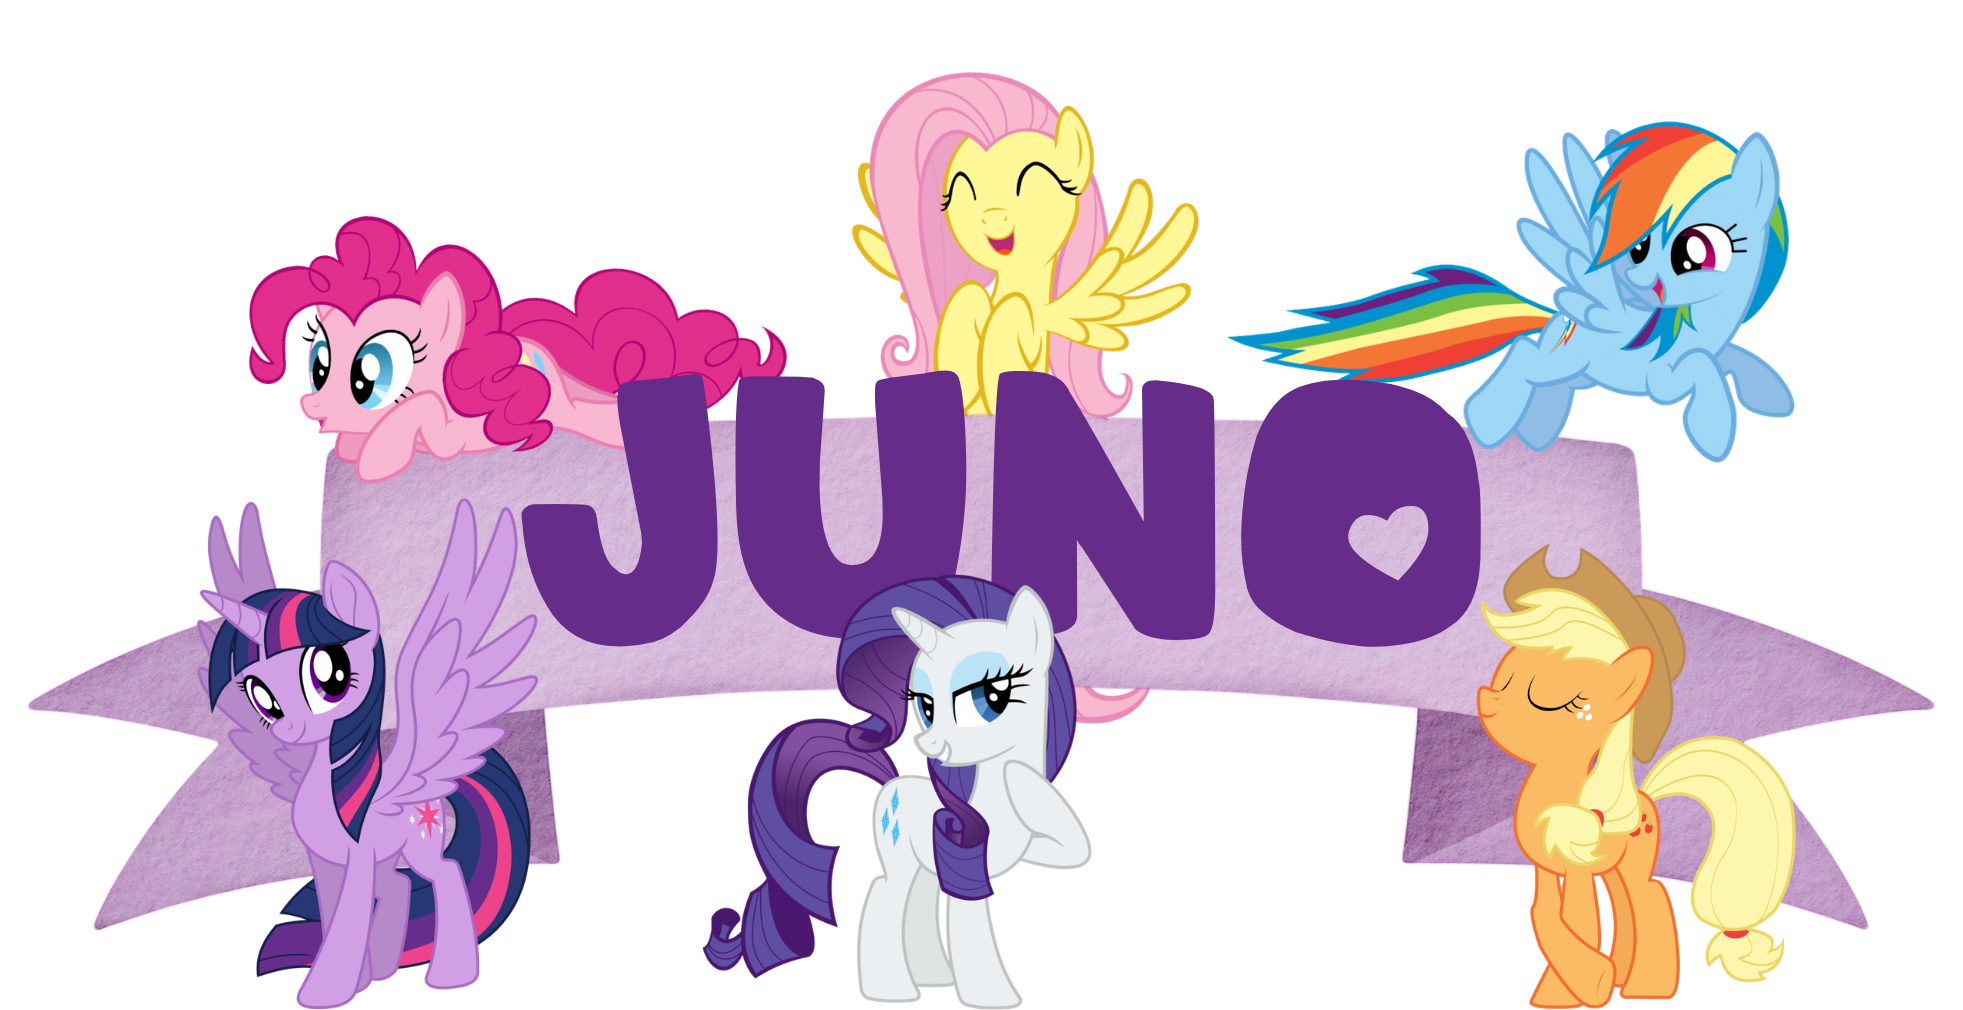
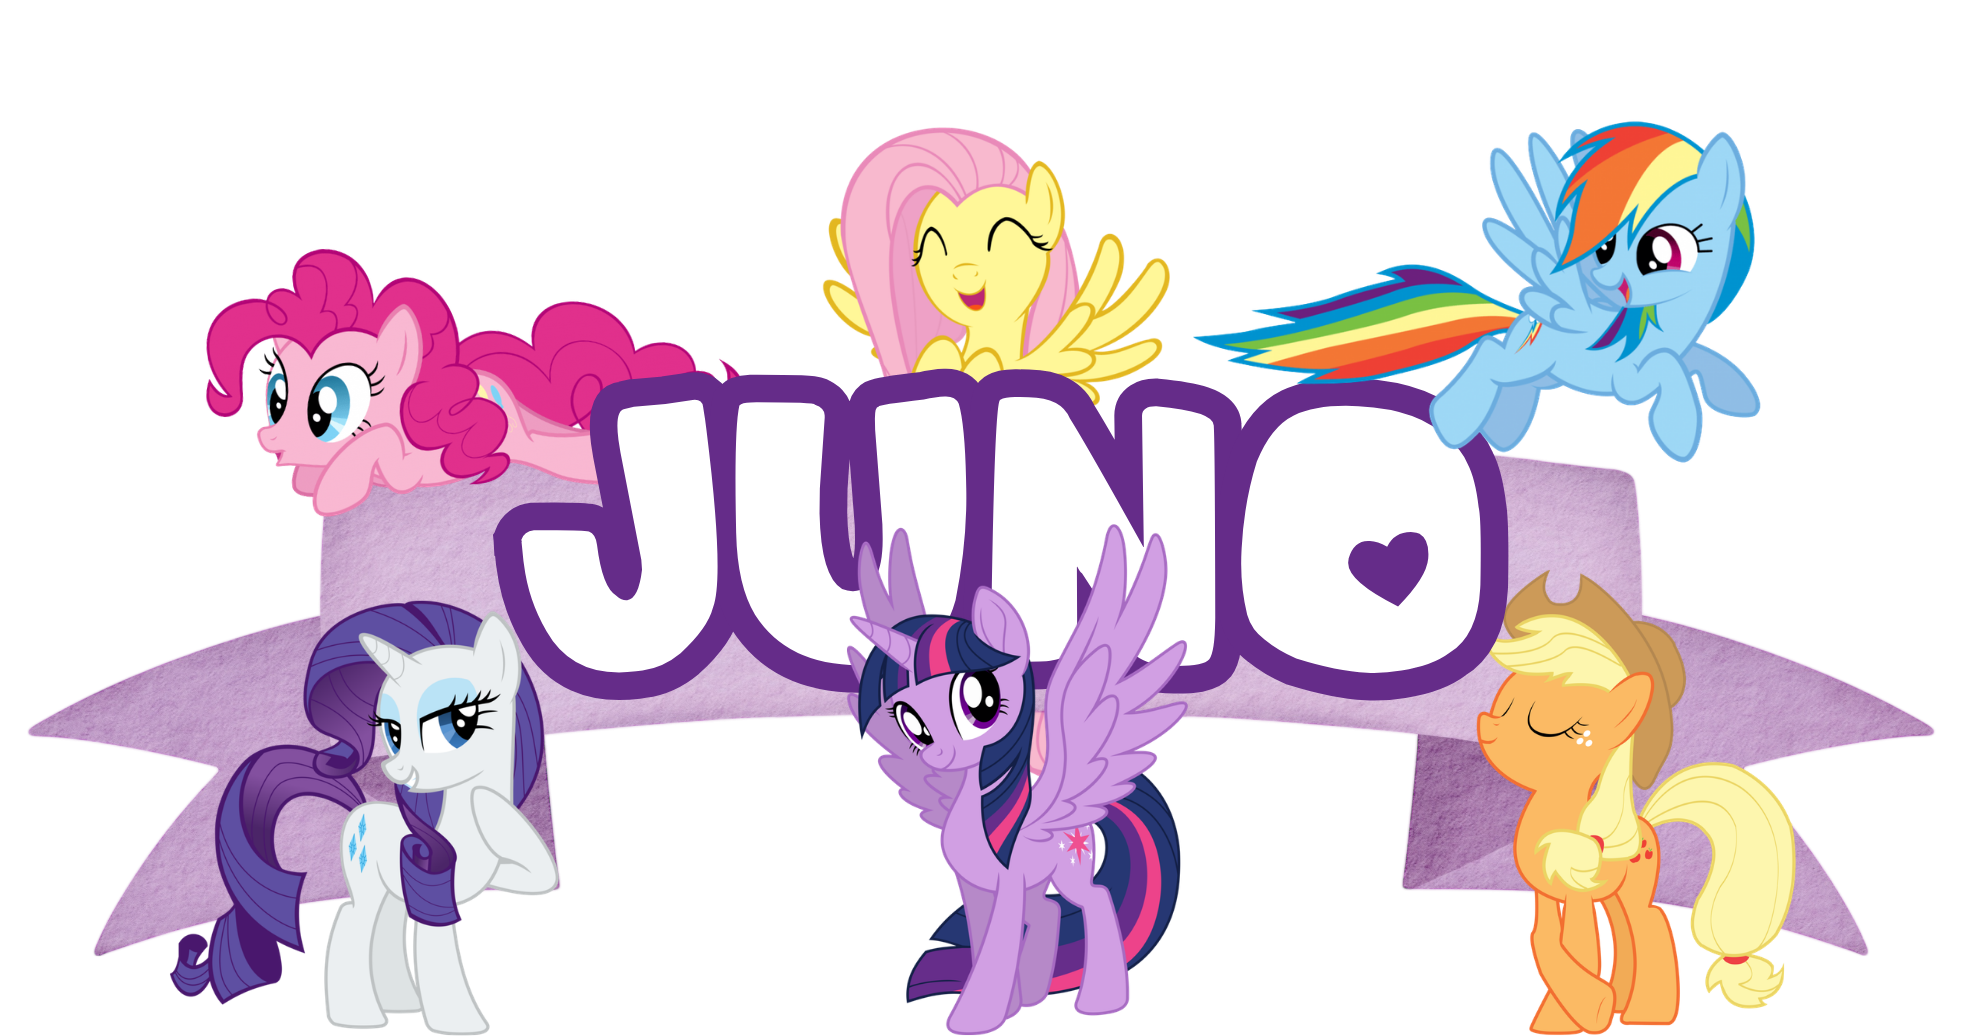
added dress code, godparents panel

diff --git a/body.html b/body.html
@@ -15,14 +15,15 @@
 
         @font-face {
             font-family: "Equestria Bold";
-            src: url("font/Equestria Bold.otf") format("opentype");
+            src: url("font/fredoka-one.one-regular.ttf") format("truetype");
             font-weight: normal;
             font-style: normal;
             font-display: swap;
         }
 
         :root {
-            --text-color: #652c89;
+            --text-color: #ffffff;
+            --outline-color: #652c89;
 
             --sky-top: #2a78d0;
             --sky-mid: #6fb6ee;
@@ -36,6 +37,11 @@
             --rod-light: #b57a45;
             --rod-dark: #5a3416;
             --rod-cap: #e0b34a;
+
+            --pinkie-body: #ffb3d9;
+            --pinkie-mane: #ff5fae;
+            --pinkie-deep: #d6338c;
+            --pinkie-light: #ffe3f1;
         }
 
         * {
@@ -56,7 +62,7 @@
 
         .page {
             position: relative;
-            min-height: 300vh; /* Make the page tall so there is room to scroll. Change as needed. */
+            min-height: 420vh; /* Make the page tall so there is room to scroll. Change as needed. */
             background: linear-gradient(
                 to bottom,
                 var(--sky-top) 0%,
@@ -70,6 +76,30 @@
         .content {
             position: relative;
             z-index: 2;
+        }
+
+        /* Small purple outline, applied to every piece of text on the page */
+        .title,
+        .intro,
+        .details-title,
+        .event-date,
+        .event-day,
+        .christening-title,
+        .christening-time,
+        .christening-venue,
+        .location-btn,
+        .countdown-label,
+        .countdown-value,
+        .countdown-unit-label {
+            text-shadow:
+                -2px -2px 0 var(--outline-color),
+                 2px -2px 0 var(--outline-color),
+                -2px  2px 0 var(--outline-color),
+                 2px  2px 0 var(--outline-color),
+                 0    2px 0 var(--outline-color),
+                 0   -2px 0 var(--outline-color),
+                 2px  0   0 var(--outline-color),
+                -2px  0   0 var(--outline-color);
         }
 
         /* Title at the top middle of the page */
@@ -148,21 +178,53 @@
             border-radius: 50%;
         }
 
-        .cloud-1 { top: 90px;  left: -220px; width: 130px; height: 44px; animation: drift-cloud 38s linear infinite; }
+        .cloud-1 { top: 4%;  left: -220px; width: 130px; height: 44px; animation: drift-cloud 38s linear infinite; }
         .cloud-1::before { width: 60px; height: 60px; top: -28px; left: 15px; }
         .cloud-1::after  { width: 46px; height: 46px; top: -20px; left: 65px; }
 
-        .cloud-2 { top: 220px; left: -260px; width: 170px; height: 54px; animation: drift-cloud 52s linear infinite; animation-delay: -18s; }
+        .cloud-2 { top: 12%; left: -260px; width: 170px; height: 54px; animation: drift-cloud 52s linear infinite; animation-delay: -18s; }
         .cloud-2::before { width: 74px; height: 74px; top: -34px; left: 20px; }
         .cloud-2::after  { width: 56px; height: 56px; top: -24px; left: 90px; }
 
-        .cloud-3 { top: 40px;  left: -180px; width: 110px; height: 38px; animation: drift-cloud 30s linear infinite; animation-delay: -8s; }
+        .cloud-3 { top: 2%;  left: -180px; width: 110px; height: 38px; animation: drift-cloud 30s linear infinite; animation-delay: -8s; }
         .cloud-3::before { width: 50px; height: 50px; top: -24px; left: 12px; }
         .cloud-3::after  { width: 38px; height: 38px; top: -16px; left: 55px; }
 
-        .cloud-4 { top: 330px; left: -240px; width: 150px; height: 48px; animation: drift-cloud 46s linear infinite; animation-delay: -30s; }
+        .cloud-4 { top: 18%; left: -240px; width: 150px; height: 48px; animation: drift-cloud 46s linear infinite; animation-delay: -30s; }
         .cloud-4::before { width: 64px; height: 64px; top: -30px; left: 18px; }
         .cloud-4::after  { width: 48px; height: 48px; top: -20px; left: 78px; }
+
+        .cloud-5 { top: 28%; left: -200px; width: 140px; height: 46px; animation: drift-cloud 42s linear infinite; animation-delay: -12s; }
+        .cloud-5::before { width: 62px; height: 62px; top: -30px; left: 16px; }
+        .cloud-5::after  { width: 48px; height: 48px; top: -20px; left: 68px; }
+
+        .cloud-6 { top: 38%; left: -250px; width: 160px; height: 50px; animation: drift-cloud 50s linear infinite; animation-delay: -26s; }
+        .cloud-6::before { width: 70px; height: 70px; top: -32px; left: 18px; }
+        .cloud-6::after  { width: 52px; height: 52px; top: -22px; left: 82px; }
+
+        .cloud-7 { top: 47%; left: -190px; width: 120px; height: 40px; animation: drift-cloud 34s linear infinite; animation-delay: -4s; }
+        .cloud-7::before { width: 54px; height: 54px; top: -26px; left: 14px; }
+        .cloud-7::after  { width: 42px; height: 42px; top: -18px; left: 60px; }
+
+        .cloud-8 { top: 57%; left: -230px; width: 150px; height: 48px; animation: drift-cloud 44s linear infinite; animation-delay: -34s; }
+        .cloud-8::before { width: 64px; height: 64px; top: -30px; left: 18px; }
+        .cloud-8::after  { width: 48px; height: 48px; top: -20px; left: 78px; }
+
+        .cloud-9 { top: 67%; left: -210px; width: 135px; height: 44px; animation: drift-cloud 40s linear infinite; animation-delay: -16s; }
+        .cloud-9::before { width: 60px; height: 60px; top: -28px; left: 16px; }
+        .cloud-9::after  { width: 46px; height: 46px; top: -18px; left: 66px; }
+
+        .cloud-10 { top: 76%; left: -260px; width: 170px; height: 54px; animation: drift-cloud 54s linear infinite; animation-delay: -40s; }
+        .cloud-10::before { width: 74px; height: 74px; top: -34px; left: 20px; }
+        .cloud-10::after  { width: 56px; height: 56px; top: -24px; left: 90px; }
+
+        .cloud-11 { top: 86%; left: -180px; width: 115px; height: 38px; animation: drift-cloud 32s linear infinite; animation-delay: -10s; }
+        .cloud-11::before { width: 52px; height: 52px; top: -26px; left: 14px; }
+        .cloud-11::after  { width: 40px; height: 40px; top: -18px; left: 58px; }
+
+        .cloud-12 { top: 93%; left: -240px; width: 150px; height: 48px; animation: drift-cloud 46s linear infinite; animation-delay: -22s; }
+        .cloud-12::before { width: 64px; height: 64px; top: -30px; left: 18px; }
+        .cloud-12::after  { width: 48px; height: 48px; top: -20px; left: 78px; }
 
         @keyframes drift-cloud {
             from { transform: translateX(0); }
@@ -298,7 +360,7 @@
             text-align: center;
         }
 
-        /* "What's Happening in Ponyville" heading inside the scroll */
+        /* "Event Details" heading inside the scroll */
         .details-title {
             margin: 0;
             font-family: "Pony MLP", "Trebuchet MS", "Segoe UI", Arial, sans-serif;
@@ -312,7 +374,7 @@
         .event-date {
             margin: 24px 0 0;
             font-family: "Equestria Bold", "Trebuchet MS", "Segoe UI", Arial, sans-serif;
-            font-size: clamp(1.75rem, 5vw, 3rem);
+            font-size: clamp(1.75rem, 5vw, 2.5rem);
             font-weight: normal;
             line-height: 1.2;
             color: var(--text-color);
@@ -353,9 +415,8 @@
             gap: 16px;
         }
 
-        /* Party row: image on the right side, text on the left */
+        /* Party row: image on the left side, same layout as Christening */
         .party {
-            flex-direction: row-reverse;
         }
 
         .christening-icon {
@@ -409,7 +470,7 @@
             font-family: "Equestria Bold", "Trebuchet MS", "Segoe UI", Arial, sans-serif;
             font-size: clamp(1rem, 2.4vw, 1.3rem);
             line-height: 1.2;
-            color: #f3d27a;
+            color: var(--text-color);
             text-decoration: none;
             transition: filter 0.2s ease, transform 0.2s ease;
         }
@@ -495,7 +556,7 @@
             font-family: "Equestria Bold", "Trebuchet MS", "Segoe UI", Arial, sans-serif;
             font-size: clamp(1.5rem, 4.2vw, 2.2rem);
             line-height: 1.1;
-            color: #f3d27a;
+            color: var(--text-color);
         }
 
         .countdown-unit-label {
@@ -503,7 +564,7 @@
             margin-top: 4px;
             font-family: "Equestria Bold", "Trebuchet MS", "Segoe UI", Arial, sans-serif;
             font-size: clamp(0.75rem, 2vw, 0.95rem);
-            color: #f3d27a;
+            color: var(--text-color);
         }
 
         @media (max-width: 420px) {
@@ -515,6 +576,124 @@
                 min-width: 64px;
                 padding: 10px 6px;
             }
+        }
+
+        /* ---------- Godparents, in a Pinkie Pie pink party theme ---------- */
+        .godparents {
+            position: relative;
+            width: min(88%, 620px);
+            margin: 56px auto 0;
+            padding: 36px 24px 32px;
+            border-radius: 24px;
+            background: linear-gradient(to bottom, var(--pinkie-light), var(--pinkie-body));
+            box-shadow: 0 6px 16px rgba(214, 51, 140, 0.35);
+        }
+
+        /* Bright pink dashed border, like a party invitation */
+        .godparents::before {
+            content: "";
+            position: absolute;
+            inset: 0;
+            border-radius: 24px;
+            border: 4px dashed var(--pinkie-mane);
+            pointer-events: none;
+        }
+
+        .godparents-title {
+            margin: 0 0 28px;
+            text-align: center;
+            font-family: "Pony MLP", "Trebuchet MS", "Segoe UI", Arial, sans-serif;
+            font-size: clamp(1.8rem, 5vw, 2.75rem);
+            font-weight: normal;
+            line-height: 1.1;
+            color: #ffffff;
+            text-shadow:
+                -2px -2px 0 var(--pinkie-deep),
+                 2px -2px 0 var(--pinkie-deep),
+                -2px  2px 0 var(--pinkie-deep),
+                 2px  2px 0 var(--pinkie-deep),
+                 0    2px 0 var(--pinkie-deep),
+                 0   -2px 0 var(--pinkie-deep),
+                 2px  0   0 var(--pinkie-deep),
+                -2px  0   0 var(--pinkie-deep);
+        }
+
+        .godparents-columns {
+            display: flex;
+            flex-wrap: wrap;
+            justify-content: center;
+            gap: 32px 48px;
+        }
+
+        .godparents-column {
+            flex: 1 1 200px;
+            max-width: 260px;
+            text-align: center;
+        }
+
+        /* The Godfather column holds two sub-lists side by side, so it needs more room */
+        .godparents-column--wide {
+            flex-basis: 320px;
+            max-width: 360px;
+        }
+
+        .godparents-column-title {
+            margin: 0 0 14px;
+            padding-bottom: 10px;
+            border-bottom: 2px dashed var(--pinkie-mane);
+            font-family: "Pony MLP", "Trebuchet MS", "Segoe UI", Arial, sans-serif;
+            font-size: clamp(1.2rem, 3.2vw, 1.6rem);
+            font-weight: normal;
+            line-height: 1.1;
+            color: #ffffff;
+            text-shadow:
+                -2px -2px 0 var(--pinkie-deep),
+                 2px -2px 0 var(--pinkie-deep),
+                -2px  2px 0 var(--pinkie-deep),
+                 2px  2px 0 var(--pinkie-deep),
+                 0    2px 0 var(--pinkie-deep),
+                 0   -2px 0 var(--pinkie-deep),
+                 2px  0   0 var(--pinkie-deep),
+                -2px  0   0 var(--pinkie-deep);
+        }
+
+        /* Splits a long name list (like Godfather) into two side-by-side sub-lists */
+        .godparents-subcolumns {
+            display: flex;
+            justify-content: center;
+            gap: 10px 24px;
+        }
+
+        .godparents-list {
+            margin: 0;
+            padding: 0;
+            list-style: none;
+        }
+
+        .godparents-list li {
+            margin: 0;
+            padding: 5px 0;
+            font-family: "Equestria Bold", "Trebuchet MS", "Segoe UI", Arial, sans-serif;
+            font-size: clamp(0.95rem, 2.4vw, 1.1rem);
+            line-height: 1.4;
+            color: #ffffff;
+            text-shadow:
+                -1.5px -1.5px 0 var(--pinkie-deep),
+                 1.5px -1.5px 0 var(--pinkie-deep),
+                -1.5px  1.5px 0 var(--pinkie-deep),
+                 1.5px  1.5px 0 var(--pinkie-deep),
+                 0      1.5px 0 var(--pinkie-deep),
+                 0     -1.5px 0 var(--pinkie-deep),
+                 1.5px  0     0 var(--pinkie-deep),
+                -1.5px  0     0 var(--pinkie-deep);
+        }
+
+        /* Dress image, outside and below the scroll */
+        .dress {
+            display: block;
+            width: min(70%, 420px);
+            height: auto;
+            margin: 48px auto 0;
         }
 
         /* The grass: only appears once you reach the bottom of the page. */
@@ -561,6 +740,14 @@
             <div class="cloud cloud-2"></div>
             <div class="cloud cloud-3"></div>
             <div class="cloud cloud-4"></div>
+            <div class="cloud cloud-5"></div>
+            <div class="cloud cloud-6"></div>
+            <div class="cloud cloud-7"></div>
+            <div class="cloud cloud-8"></div>
+            <div class="cloud cloud-9"></div>
+            <div class="cloud cloud-10"></div>
+            <div class="cloud cloud-11"></div>
+            <div class="cloud cloud-12"></div>
 
             <div class="star star-1"></div>
             <div class="star star-2"></div>
@@ -664,6 +851,51 @@
                     <span class="arrow"></span>
                 </div>
             </section>
+
+            <!-- Godparents -->
+            <section class="godparents">
+                <h2 class="godparents-title">Our Godparents</h2>
+
+                <div class="godparents-columns">
+                    <div class="godparents-column godparents-column--wide">
+                        <h3 class="godparents-column-title">Godfather</h3>
+                        <div class="godparents-subcolumns">
+                            <ul class="godparents-list">
+                                <li>Joshua Cruz</li>
+                                <li>Noriel Rivera</li>
+                                <li>Jesmar Regencia</li>
+                                <li>Cj Judilla</li>
+                                <li>Renniel Saing</li>
+                                <li>Kael Sevilla</li>
+                                <li>Pablo</li>
+                                <li>Nicole Vivas</li>
+                            </ul>
+                            <ul class="godparents-list">
+                                <li>RJ Givera</li>
+                                <li>Dj Carta</li>
+                                <li>Jr Saracho</li>
+                                <li>Aron Razote</li>
+                                <li>Alvin Mantilla</li>
+                                <li>Lenon Bert Callao</li>
+                                <li>Kid Yambao</li>
+                            </ul>
+                        </div>
+                    </div>
+
+                    <div class="godparents-column">
+                        <h3 class="godparents-column-title">Godmother</h3>
+                        <ul class="godparents-list">
+                            <li>Marian Galgana</li>
+                            <li>Tine Dorado</li>
+                            <li>Catrine Cruz</li>
+                            <li>Mahlia Palma</li>
+                            <li>Jana Hernandez</li>
+                        </ul>
+                    </div>
+                </div>
+            </section>
+
+            <img class="dress" src="image/dress.jpg" alt="Birthday dress">
         </div>
 
         <div class="grass" aria-hidden="true"></div>
